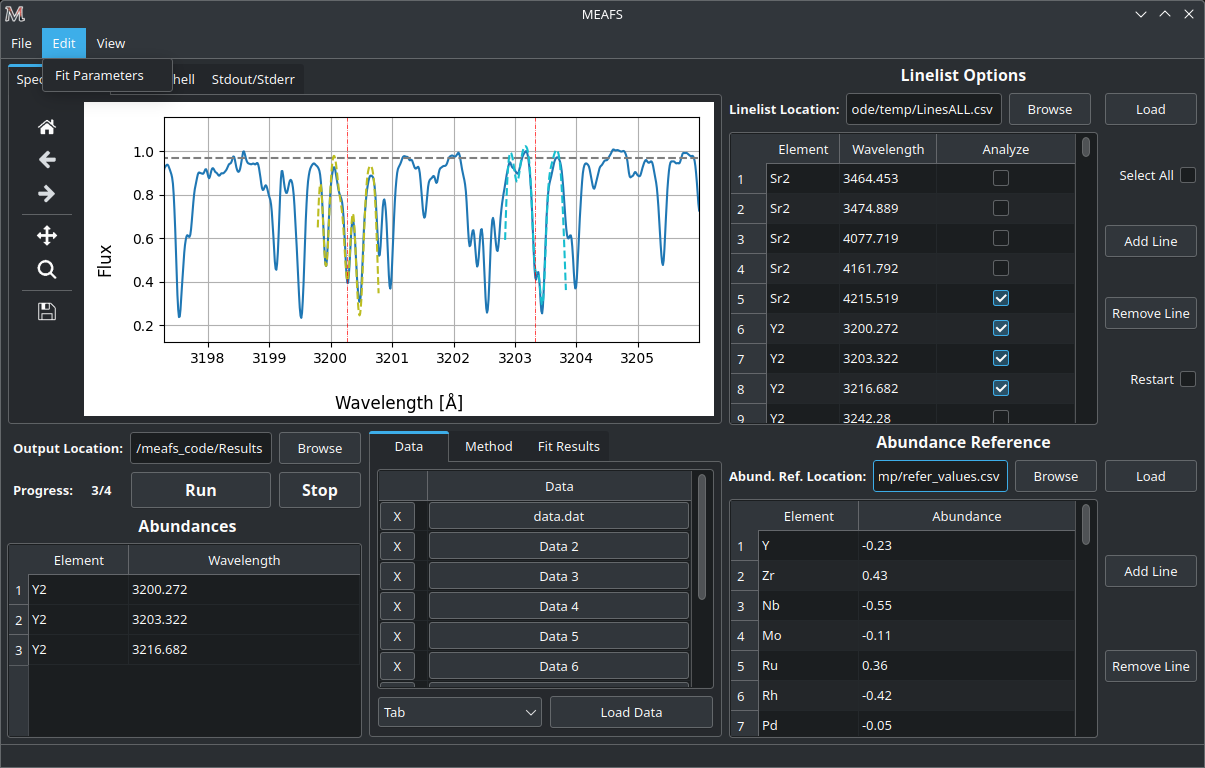
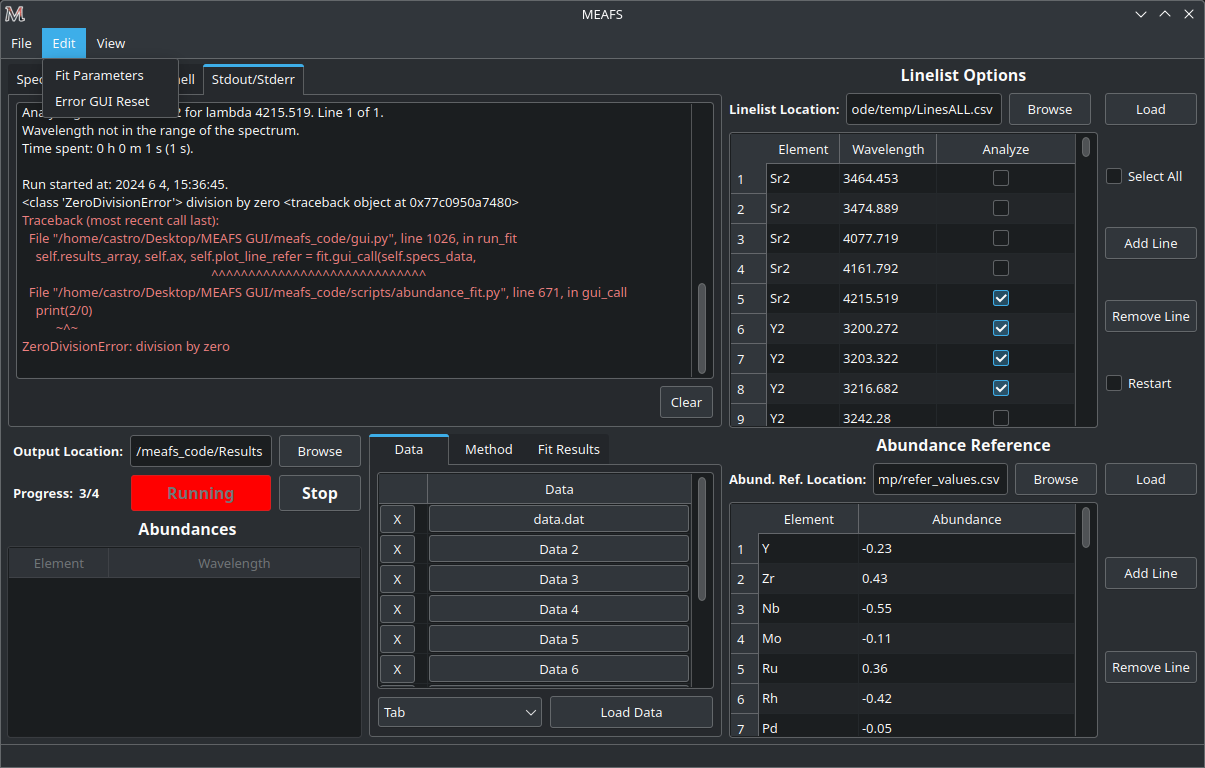
new settings parameters to save turbospectrum paths, stderr fixed, new unfrozen GUI feature, update docs

diff --git a/docs/conf.py b/docs/conf.py
@@ -14,7 +14,7 @@ sys.path.insert(0, os.path.abspath(".."))
 project = 'MEAFS'
 copyright = '2024, Matheus J. Castro'
 author = 'Matheus J. Castro'
-release = '4.7.14'
+release = '4.8.3'
 
 # -- General configuration ---------------------------------------------------
 # https://www.sphinx-doc.org/en/master/usage/configuration.html#general-configuration

diff --git a/docs/manual.rst b/docs/manual.rst
@@ -469,6 +469,19 @@ Stdout/Stderr tab. Use it for debug and/or follow up the fit process.
 
 It is possible to clear the Stdout/Stderr bt pressing the *Clear* button.
 
+Errors while running the fit
+^^^^^^^^^^^^^^^^^^^^^^^^^^^^
+
+.. image:: _static/meafs_gui_13.png
+   :width: 80%
+   :align: center
+   :alt: GUI run
+
+| 
+
+In case of errors while running a fit, some widgets of the GUI may be frozen. To unlock
+them, go to the menu option *Edit* > *Error GUI Reset*.
+
 Save and open sessions
 ----------------------
 
